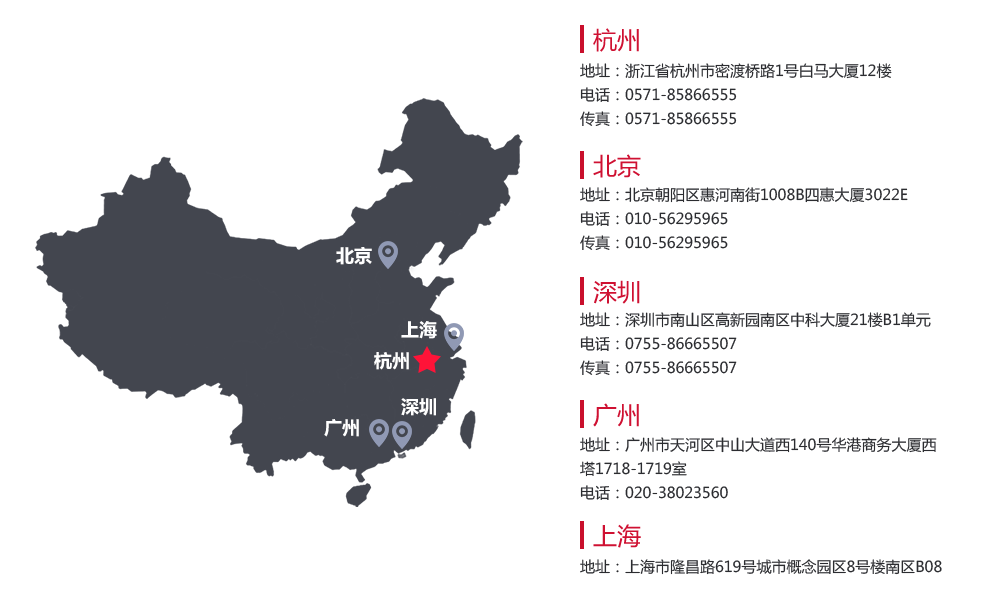
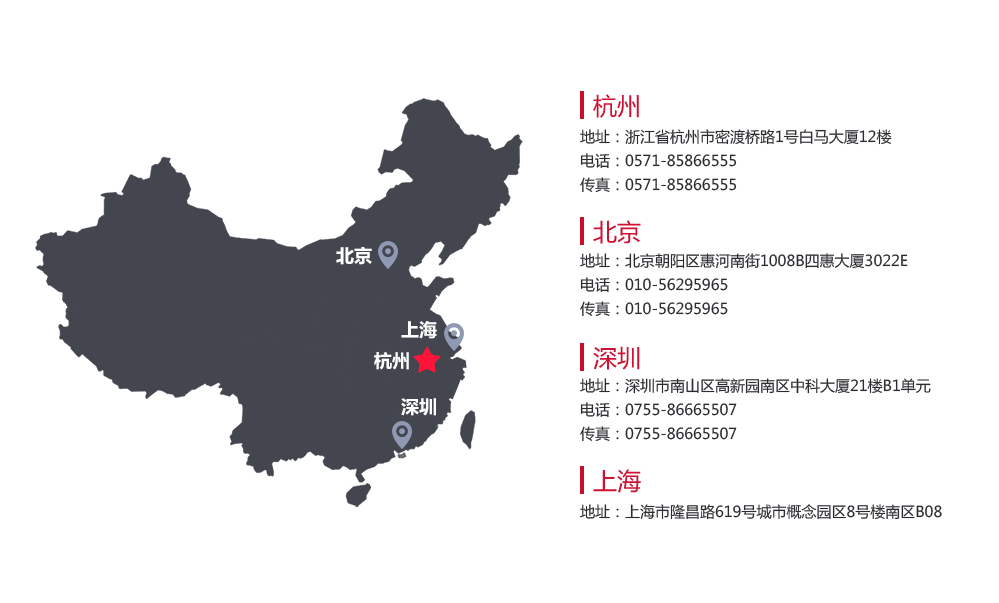
修改手机分辨率不能关闭引导bug，修改地图，去掉一些手机游戏

Changed region(s): [[0.5586, 0.0299, 0.962, 0.9552], [0.3103, 0.6866, 0.4034, 0.7463]]

diff --git a/xtone-vanggame-front/WebContent/porducts-phone.html b/xtone-vanggame-front/WebContent/porducts-phone.html
@@ -176,62 +176,62 @@ height: 116px;
 						<a href="http://dmx.xtonegame.com" target="_blank"><img src="images/products/kddmx4.png" class="bsimg"></a>
 					</div>
 				</div>
-				<div class="col-sm-12 col-sm-12 col-xs-12 nopadding game-top">
-					<div class="sjyx1">
-						<img src="images/products/hsjs1.png" class="bsimg">
-					</div>
-					<div class="sjyx2">
-						<img src="images/products/hsjs2.jpg" class="bsimg">
-					</div>
-					<div class="sjyx3">
-						<a href="javascript:alert('敬请期待！');"><img src="images/products/hsjs3.png" class="bsimg"></a>
-					</div>
-					<div class="sjyx3">
-						<a href="javascript:alert('敬请期待！');"><img src="images/products/hsjs4.png" class="bsimg"></a>
-					</div>
-				</div>
-				<div class="col-sm-12 col-sm-12 col-xs-12 nopadding game-top">
-					<div class="sjyx1">
-						<img src="images/products/lznh1.png" class="bsimg">
-					</div>
-					<div class="sjyx2">
-						<img src="images/products/lznh2.jpg" class="bsimg">
-					</div>
-					<div class="sjyx3">
-						<a href="javascript:alert('敬请期待！');"><img src="images/products/lznh3.png" class="bsimg"></a>
-					</div>
-					<div class="sjyx3">
-						<a href="http://lznh.cooguo.com/"><img src="images/products/lznh4.png" class="bsimg"></a>
-					</div>
-				</div>
-				<div class="col-sm-12 col-sm-12 col-xs-12 nopadding game-top">
-					<div class="sjyx1">
-						<img src="images/products/qxrdz1.png" class="bsimg">
-					</div>
-					<div class="sjyx2">
-						<img src="images/products/qxrdz2.jpg" class="bsimg">
-					</div>
-					<div class="sjyx3">
-						<a href="javascript:alert('敬请期待！');"><img src="images/products/qxrdz3.png" class="bsimg"></a>
-					</div>
-					<div class="sjyx3">
-						<a href="javascript:alert('敬请期待！');"><img src="images/products/qxrdz4.png" class="bsimg"></a>
-					</div>
-				</div>
-				<div class="col-sm-12 col-sm-12 col-xs-12 nopadding game-top">
-					<div class="sjyx1">
-						<img src="images/products/fkbdj1.png" class="bsimg">
-					</div>
-					<div class="sjyx2">
-						<img src="images/products/fkbdj2.jpg" class="bsimg">
-					</div>
-					<div class="sjyx3">
-						<a href="javascript:alert('敬请期待！');"><img src="images/products/fkbdj3.png" class="bsimg"></a>
-					</div>
-					<div class="sjyx3">
-						<a href="javascript:alert('敬请期待！');"><img src="images/products/fkbdj4.png" class="bsimg"></a>
-					</div>
-				</div>
+<!-- 				<div class="col-sm-12 col-sm-12 col-xs-12 nopadding game-top"> -->
+<!-- 					<div class="sjyx1"> -->
+<!-- 						<img src="images/products/hsjs1.png" class="bsimg"> -->
+<!-- 					</div> -->
+<!-- 					<div class="sjyx2"> -->
+<!-- 						<img src="images/products/hsjs2.jpg" class="bsimg"> -->
+<!-- 					</div> -->
+<!-- 					<div class="sjyx3"> -->
+<!-- 						<a href="javascript:alert('敬请期待！');"><img src="images/products/hsjs3.png" class="bsimg"></a> -->
+<!-- 					</div> -->
+<!-- 					<div class="sjyx3"> -->
+<!-- 						<a href="javascript:alert('敬请期待！');"><img src="images/products/hsjs4.png" class="bsimg"></a> -->
+<!-- 					</div> -->
+<!-- 				</div> -->
+<!-- 				<div class="col-sm-12 col-sm-12 col-xs-12 nopadding game-top"> -->
+<!-- 					<div class="sjyx1"> -->
+<!-- 						<img src="images/products/lznh1.png" class="bsimg"> -->
+<!-- 					</div> -->
+<!-- 					<div class="sjyx2"> -->
+<!-- 						<img src="images/products/lznh2.jpg" class="bsimg"> -->
+<!-- 					</div> -->
+<!-- 					<div class="sjyx3"> -->
+<!-- 						<a href="javascript:alert('敬请期待！');"><img src="images/products/lznh3.png" class="bsimg"></a> -->
+<!-- 					</div> -->
+<!-- 					<div class="sjyx3"> -->
+<!-- 						<a href="http://lznh.cooguo.com/"><img src="images/products/lznh4.png" class="bsimg"></a> -->
+<!-- 					</div> -->
+<!-- 				</div> -->
+<!-- 				<div class="col-sm-12 col-sm-12 col-xs-12 nopadding game-top"> -->
+<!-- 					<div class="sjyx1"> -->
+<!-- 						<img src="images/products/qxrdz1.png" class="bsimg"> -->
+<!-- 					</div> -->
+<!-- 					<div class="sjyx2"> -->
+<!-- 						<img src="images/products/qxrdz2.jpg" class="bsimg"> -->
+<!-- 					</div> -->
+<!-- 					<div class="sjyx3"> -->
+<!-- 						<a href="javascript:alert('敬请期待！');"><img src="images/products/qxrdz3.png" class="bsimg"></a> -->
+<!-- 					</div> -->
+<!-- 					<div class="sjyx3"> -->
+<!-- 						<a href="javascript:alert('敬请期待！');"><img src="images/products/qxrdz4.png" class="bsimg"></a> -->
+<!-- 					</div> -->
+<!-- 				</div> -->
+<!-- 				<div class="col-sm-12 col-sm-12 col-xs-12 nopadding game-top"> -->
+<!-- 					<div class="sjyx1"> -->
+<!-- 						<img src="images/products/fkbdj1.png" class="bsimg"> -->
+<!-- 					</div> -->
+<!-- 					<div class="sjyx2"> -->
+<!-- 						<img src="images/products/fkbdj2.jpg" class="bsimg"> -->
+<!-- 					</div> -->
+<!-- 					<div class="sjyx3"> -->
+<!-- 						<a href="javascript:alert('敬请期待！');"><img src="images/products/fkbdj3.png" class="bsimg"></a> -->
+<!-- 					</div> -->
+<!-- 					<div class="sjyx3"> -->
+<!-- 						<a href="javascript:alert('敬请期待！');"><img src="images/products/fkbdj4.png" class="bsimg"></a> -->
+<!-- 					</div> -->
+<!-- 				</div> -->
 				<div class="col-sm-12 col-sm-12 col-xs-12 nopadding game-top">
 					<div class="sjyx1">
 						<img src="images/products/ssgl1.png" class="bsimg">
@@ -246,20 +246,20 @@ height: 116px;
 						<a href="javascript:alert('敬请期待！');"><img src="images/products/ssgl4.png" class="bsimg"></a>
 					</div>
 				</div>
-				<div class="col-sm-12 col-sm-12 col-xs-12 nopadding game-top">
-					<div class="sjyx1">
-						<img src="images/products/smzg1.png" class="bsimg">
-					</div>
-					<div class="sjyx2">
-						<img src="images/products/smzg2.jpg" class="bsimg">
-					</div>
-					<div class="sjyx3">
-						<a href="javascript:alert('敬请期待！');"><img src="images/products/smzg3.png" class="bsimg"></a>
-					</div>
-					<div class="sjyx3">
-						<a href="http://smzg.xtonegame.com/" target="_blank"><img src="images/products/smzg4.png" class="bsimg"></a>
-					</div>
-				</div>
+<!-- 				<div class="col-sm-12 col-sm-12 col-xs-12 nopadding game-top"> -->
+<!-- 					<div class="sjyx1"> -->
+<!-- 						<img src="images/products/smzg1.png" class="bsimg"> -->
+<!-- 					</div> -->
+<!-- 					<div class="sjyx2"> -->
+<!-- 						<img src="images/products/smzg2.jpg" class="bsimg"> -->
+<!-- 					</div> -->
+<!-- 					<div class="sjyx3"> -->
+<!-- 						<a href="javascript:alert('敬请期待！');"><img src="images/products/smzg3.png" class="bsimg"></a> -->
+<!-- 					</div> -->
+<!-- 					<div class="sjyx3"> -->
+<!-- 						<a href="http://smzg.xtonegame.com/" target="_blank"><img src="images/products/smzg4.png" class="bsimg"></a> -->
+<!-- 					</div> -->
+<!-- 				</div> -->
 				<div class="col-sm-12 col-sm-12 col-xs-12 nopadding game-top">
 					<div class="sjyx1">
 						<img src="images/products/zyyrz1.png" class="bsimg">
@@ -271,23 +271,23 @@ height: 116px;
 						<a href="javascript:alert('敬请期待！');"><img src="images/products/zyyrz3.png" class="bsimg"></a>
 					</div>
 					<div class="sjyx3">
-						<a href="javascript:alert('敬请期待！');"><img src="images/products/zyyrz4.png" class="bsimg"></a>
+						<a href="http://zy.xtonegame.com/" target="_blank"><img src="images/products/zyyrz4.png" class="bsimg"></a>
 					</div>
 				</div>
-				<div class="col-sm-12 col-sm-12 col-xs-12 nopadding game-top">
-					<div class="sjyx1">
-						<img src="images/products/dsmmd1.png" class="bsimg">
-					</div>
-					<div class="sjyx2">
-						<img src="images/products/dsmmd2.jpg" class="bsimg">
-					</div>
-					<div class="sjyx3">
-						<a href="javascript:alert('敬请期待！');"><img src="images/products/dsmmd3.png" class="bsimg"></a>
-					</div>
-					<div class="sjyx3">
-						<a href="http://mmd.xtonegame.com/" target="_blank"><img src="images/products/dsmmd4.png" class="bsimg"></a>
-					</div>
-				</div>
+<!-- 				<div class="col-sm-12 col-sm-12 col-xs-12 nopadding game-top"> -->
+<!-- 					<div class="sjyx1"> -->
+<!-- 						<img src="images/products/dsmmd1.png" class="bsimg"> -->
+<!-- 					</div> -->
+<!-- 					<div class="sjyx2"> -->
+<!-- 						<img src="images/products/dsmmd2.jpg" class="bsimg"> -->
+<!-- 					</div> -->
+<!-- 					<div class="sjyx3"> -->
+<!-- 						<a href="javascript:alert('敬请期待！');"><img src="images/products/dsmmd3.png" class="bsimg"></a> -->
+<!-- 					</div> -->
+<!-- 					<div class="sjyx3"> -->
+<!-- 						<a href="http://mmd.xtonegame.com/" target="_blank"><img src="images/products/dsmmd4.png" class="bsimg"></a> -->
+<!-- 					</div> -->
+<!-- 				</div> -->
 				<div class="col-sm-12 col-sm-12 col-xs-12 nopadding game-top">
 					<div class="sjyx1">
 						<img src="images/products/jdtw1.png" class="bsimg">
@@ -299,7 +299,7 @@ height: 116px;
 						<a href="javascript:alert('敬请期待！');"><img src="images/products/jdtw3.png" class="bsimg"></a>
 					</div>
 					<div class="sjyx3">
-						<a href="http://jdtw.xtonegame.com/"><img src="images/products/jdtw4.png" class="bsimg"></a>
+						<a href="http://jdtw.xtonegame.com/" target="_blank"><img src="images/products/jdtw4.png" class="bsimg"></a>
 					</div>
 				</div>
 				<div class="col-md-12 col-sm-12 col-xs-12 bottom-hieght"></div>
@@ -311,9 +311,7 @@ height: 116px;
 	</footer>
 	
 	<script	src="js/bootstrap/jquery.min.js"></script>
-	<script	src="js/bootstrap/bootstrap.min.js"></script>
-	<script	src="js/docs.min.js"></script>
-	<script	src="js/bootstrap/ie10-viewport-bug-workaround.js"></script>
+
 <!-- 	<script>var _gauges=_gauges||[];!function(){var e=document.createElement("script");e.async=!0,e.id="gauges-tracker",e.setAttribute("data-site-id","4f0dc9fef5a1f55508000013"),e.src="//secure.gaug.es/track.js";var t=document.getElementsByTagName("script")[0];t.parentNode.insertBefore(e,t)}();</script> -->
 	<script type="text/javascript">
 	$("#top").load("top.html");

diff --git a/xtone-vanggame-front/WebContent/cooperation.html b/xtone-vanggame-front/WebContent/cooperation.html
@@ -91,7 +91,7 @@
 				<div class="col-md-12 col-sm-12 col-xs-12 artText">
 					<div class="col-md-12 col-sm-12 col-xs-12">
 						<font style="font-size: 18px;" class="content-size">
-							&nbsp;&nbsp;&nbsp;&nbsp;&nbsp;&nbsp;&nbsp;万家游戏专注于手机游戏的研发和发行，总部设在杭州，并在北京、广州、上海、深圳等地成立分公司。拥有丰富的游戏发行和运营经验，为品牌的持续发展打下了坚实的基础。目前，万家游戏已拥有雄厚的资本实力、强大的研发能力、熟稔的运营能力、完善精湛的技术支持能力、人性化的客户服务能力，以及强大的销售能力，未来我们还将继续努力，共同为万家文化发展成“亚文化第一股”的目标而奋斗。
+							&nbsp;&nbsp;&nbsp;&nbsp;&nbsp;&nbsp;&nbsp;万家游戏专注于手机游戏的研发和发行，总部设在杭州，并在北京、上海、深圳等地成立分公司。拥有丰富的游戏发行和运营经验，为品牌的持续发展打下了坚实的基础。目前，万家游戏已拥有雄厚的资本实力、强大的研发能力、熟稔的运营能力、完善精湛的技术支持能力、人性化的客户服务能力，以及强大的销售能力，未来我们还将继续努力，共同为万家文化发展成“亚文化第一股”的目标而奋斗。
 							<br>
 						<br>&nbsp;&nbsp;&nbsp;&nbsp;&nbsp;&nbsp;&nbsp;其中，商务合作是万家游戏发展壮大的重要途径之一。在经历了近年的探索和发展以后，不但获得了十分有效可观的合作成果，还沉淀了一套专业规范的游戏发行和运营模式。万家游戏愿意与全球的优秀渠道合作，通过资源互换的方式，整合双方的优势，达到共赢的目的，为游戏爱好者提供最高品质的网络娱乐产品和体验。
 						</font>
@@ -135,9 +135,7 @@
 	</footer>
 
 	<script src="js/bootstrap/jquery.min.js"></script>
-	<script src="js/bootstrap/bootstrap.min.js"></script>
-	<script src="js/docs.min.js"></script>
-	<script src="js/bootstrap/ie10-viewport-bug-workaround.js"></script>
+
 	<script>
 // 		var _gauges = _gauges || [];
 // 		!function() {

diff --git a/xtone-vanggame-front/WebContent/about-us-company.html b/xtone-vanggame-front/WebContent/about-us-company.html
@@ -114,9 +114,7 @@ color: #aaaaaa;
 	</footer>
 	
 	<script	src="js/bootstrap/jquery.min.js"></script>
-	<script	src="js/bootstrap/bootstrap.min.js"></script>
-	<script	src="js/docs.min.js"></script>
-	<script	src="js/bootstrap/ie10-viewport-bug-workaround.js"></script>
+
 	<script type="text/javascript">
 		$("#top").load("top.html");
 		$("#footer").load("footer.html");

diff --git a/xtone-vanggame-front/WebContent/porducts-client.html b/xtone-vanggame-front/WebContent/porducts-client.html
@@ -156,9 +156,7 @@ color: #aaaaaa;
 	</footer>
 	
 	<script	src="js/bootstrap/jquery.min.js"></script>
-	<script	src="js/bootstrap/bootstrap.min.js"></script>
-	<script	src="js/docs.min.js"></script>
-	<script	src="js/bootstrap/ie10-viewport-bug-workaround.js"></script>
+
 	<script type="text/javascript">
 		$("#top").load("top.html");
 		$("#footer").load("footer.html");

diff --git a/xtone-vanggame-front/WebContent/about-us-qywh.html b/xtone-vanggame-front/WebContent/about-us-qywh.html
@@ -115,9 +115,6 @@ color: #aaaaaa;
 	</footer>
 	
 	<script	src="js/bootstrap/jquery.min.js"></script>
-	<script	src="js/bootstrap/bootstrap.min.js"></script>
-	<script	src="js/docs.min.js"></script>
-	<script	src="js/bootstrap/ie10-viewport-bug-workaround.js"></script>
 	<script type="text/javascript">
 		$("#top").load("top.html");
 		$("#footer").load("footer.html");

diff --git a/xtone-vanggame-front/WebContent/join-us-contact.html b/xtone-vanggame-front/WebContent/join-us-contact.html
@@ -109,9 +109,6 @@ color: #aaaaaa;
 	</footer>
 	
 	<script	src="js/bootstrap/jquery.min.js"></script>
-	<script	src="js/bootstrap/bootstrap.min.js"></script>
-	<script	src="js/docs.min.js"></script>
-	<script	src="js/bootstrap/ie10-viewport-bug-workaround.js"></script>
 	<script type="text/javascript">
 		$("#top").load("top.html");
 		$("#footer").load("footer.html");

diff --git a/xtone-vanggame-front/WebContent/join-us-shzp.html b/xtone-vanggame-front/WebContent/join-us-shzp.html
@@ -220,9 +220,6 @@ color: #aaaaaa;
 	</footer>
 	
 	<script	src="js/bootstrap/jquery.min.js"></script>
-	<script	src="js/bootstrap/bootstrap.min.js"></script>
-	<script	src="js/docs.min.js"></script>
-	<script	src="js/bootstrap/ie10-viewport-bug-workaround.js"></script>
 	<script type="text/javascript">
 		$("#top").load("top.html");
 		$("#footer").load("footer.html");

diff --git a/xtone-vanggame-front/WebContent/low.html b/xtone-vanggame-front/WebContent/low.html
@@ -176,9 +176,6 @@ color: #aaaaaa;
 	</footer>
 	
 	<script	src="js/bootstrap/jquery.min.js"></script>
-	<script	src="js/bootstrap/bootstrap.min.js"></script>
-	<script	src="js/docs.min.js"></script>
-	<script	src="js/bootstrap/ie10-viewport-bug-workaround.js"></script>
 	<script type="text/javascript">
 		$("#top").load("top.html");
 		$("#footer").load("footer.html");

diff --git a/xtone-vanggame-front/WebContent/porducts-web.html b/xtone-vanggame-front/WebContent/porducts-web.html
@@ -156,9 +156,6 @@ color: #aaaaaa;
 	</footer>
 	
 	<script	src="js/bootstrap/jquery.min.js"></script>
-	<script	src="js/bootstrap/bootstrap.min.js"></script>
-	<script	src="js/docs.min.js"></script>
-	<script	src="js/bootstrap/ie10-viewport-bug-workaround.js"></script>
 	<script type="text/javascript">
 		$("#top").load("top.html");
 		$("#footer").load("footer.html");

diff --git a/xtone-vanggame-front/WebContent/shzp1.html b/xtone-vanggame-front/WebContent/shzp1.html
@@ -148,9 +148,6 @@
 	</footer>
 	
 	<script	src="js/bootstrap/jquery.min.js"></script>
-	<script	src="js/bootstrap/bootstrap.min.js"></script>
-	<script	src="js/docs.min.js"></script>
-	<script	src="js/bootstrap/ie10-viewport-bug-workaround.js"></script>
 	<script type="text/javascript">
 		$("#top").load("top.html");
 		$("#footer").load("footer.html");
